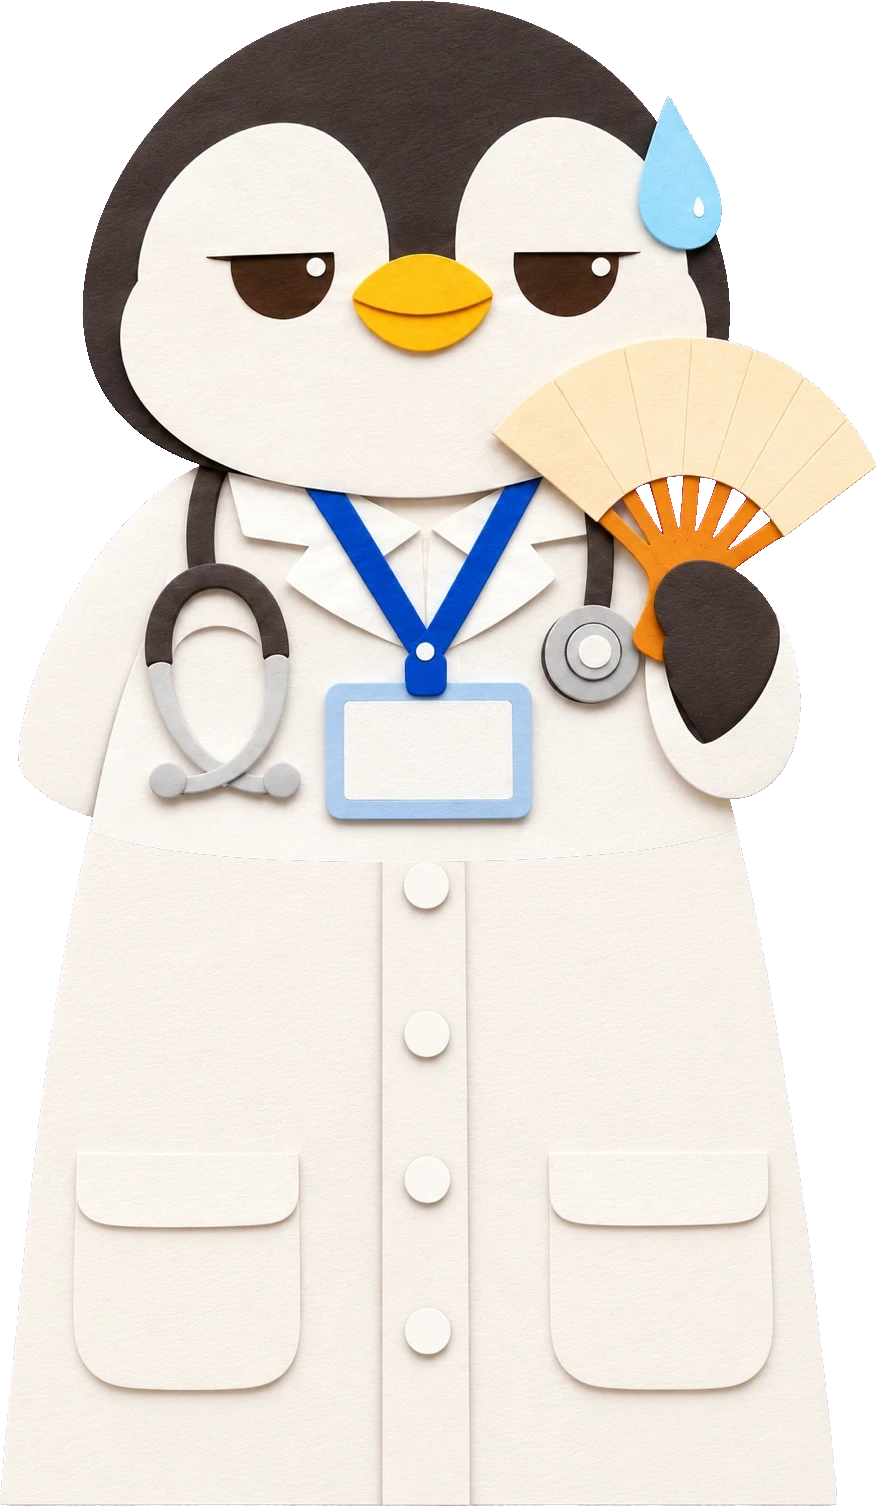
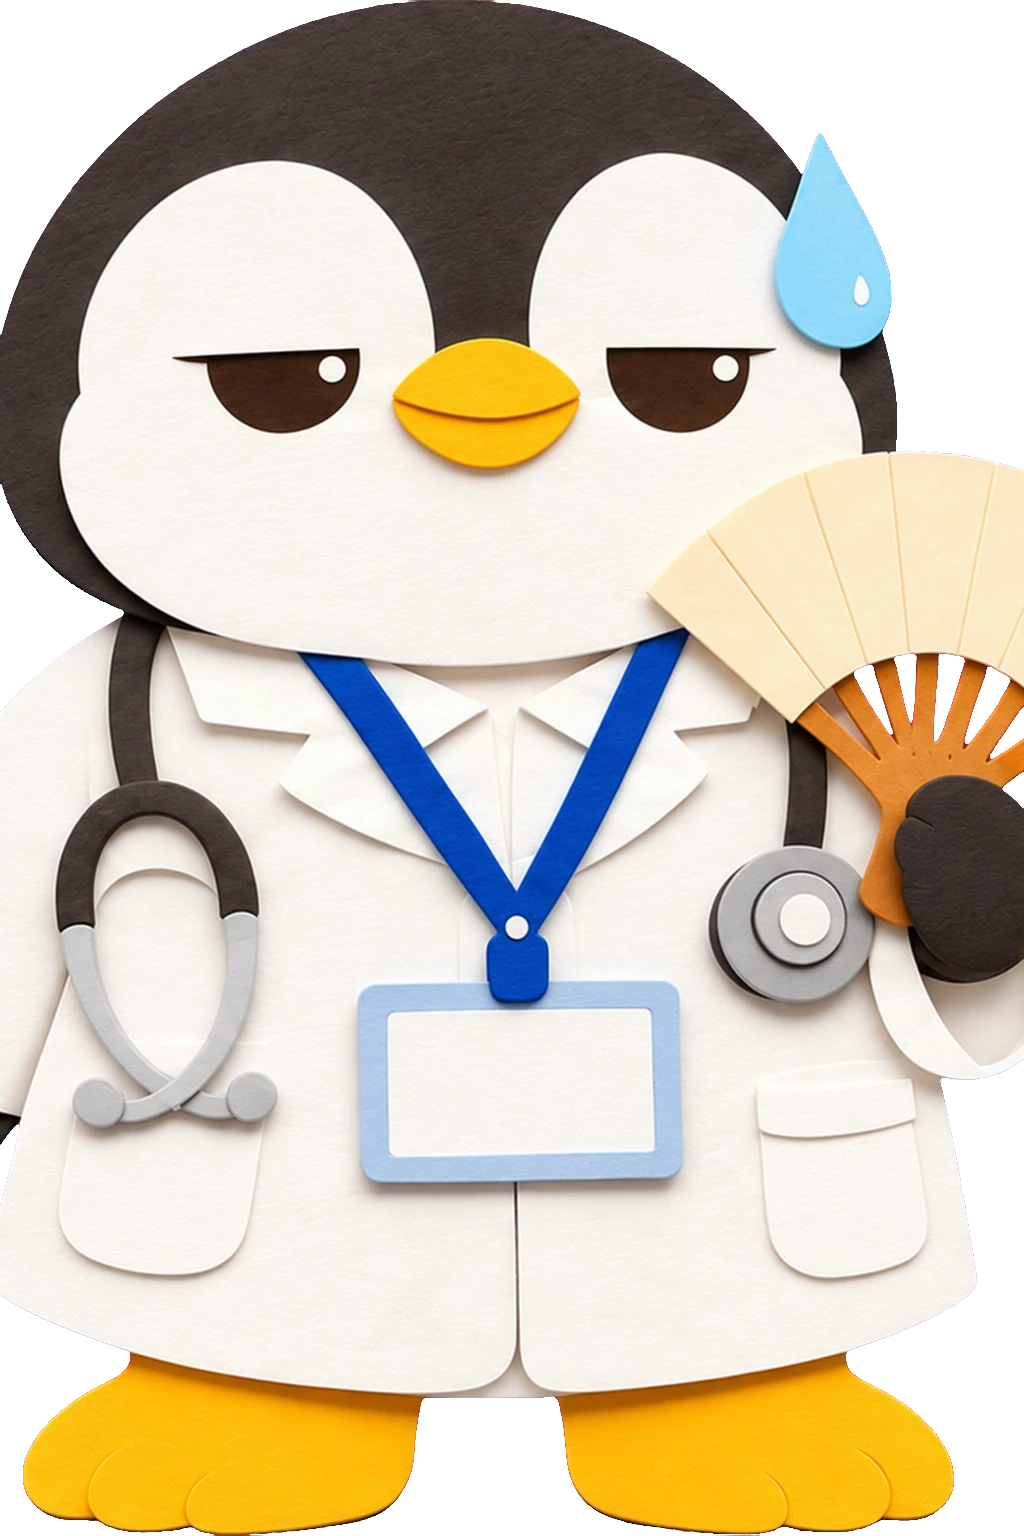
fix(M1): 클로즈업 상반신 규격 — 그림 위 끝 y300·아래 끝 화면 끝(엔진 bust_k, 짧으면 머리 폭 1000까지 키움), 늘려 붙인 그림 버림: 1화 펭귄 상반신 4장은 승인된 전신을 규격 선으로 잘라 다시(draft), 윙키 교차 컷은 원본. 지적 장부 rules/lessons.md + check 18(윙키 한 컷, 의자 가운데), 판다 눈 무늬 잠금, 의료인 대사 규칙, 그림 올리기 전 얼굴 확대 확인
미르님 2026-11-16: 「이게 기존 실수가 다시 반복되면 스킬로써의 가치가 없어」, 「모든 캐릭터가 같은 수준의 상반신 위치를 정하고… 이미지 메이킹에서부터 처리」.

diff --git a/engine/build.py b/engine/build.py
@@ -47,7 +47,8 @@ SETS = {
              "M": dict(bg="set-door-m", floor=1560)},                     # M2 두 사람 현관. 저녁은 컷의 bg="set-door-m-evening"
  # M2 새 세트(배경이 1080 폭에 z 1.0). floor = 발끝 y(앞쪽 바닥), seat = 앉기 조각 발끝 y(의자·벤치 높이), front = 앉은 인물 앞에 다시 그리는 배경 상자(책상)
  # ponytail: floor·seat·front는 그림을 보고 잰 값이다. 세트 그림이 바뀌면 다시 잰다
- "company": {"M": dict(bg="set-company-m", floor=1330, seat=1110, front=(400, 966, 1080, 1330), z=1.15, ppm=0.62), "CU": dict(bg="set-company-cu", z=1.0)},   # company M은 당겨 찍기(빈 바닥을 줄이고 두 사람을 크게)
+ "company": {"M": dict(bg="set-company-m", floor=1330, seat=1110, front=(400, 966, 1080, 1330), z=1.15, ppm=0.62, chair_x=815),   # chair_x: 의자 등받이 가운데(check 18)
+            "CU": dict(bg="set-company-cu", z=1.0)},   # company M은 당겨 찍기(빈 바닥을 줄이고 두 사람을 크게)
  "recycle": {"M": dict(bg="set-recycle-m", floor=1560), "CU": dict(bg="set-recycle-cu-a", z=1.0)},
  "clinic":  {"M": dict(bg="set-clinic-m", floor=1580, seat=1575), "CU": dict(bg="set-clinic-cu", z=1.0)},
  "kitchen": {"M": dict(bg="set-kitchen-w", ref="조리대 윗면 905·밑선 1310 (850mm)", ppm0=405 / 850, base=1310),
@@ -60,8 +61,11 @@ SETS = {
 # ── 3. 프리셋 (KIT-SPEC 2절). M은 7판에서 바꿨다(ep01-v7 README 「기획과 다르게 한 것」 1)
 PRESET = {
  "M":  dict(ppm=0.54, pos={"좌": 200, "중": 540, "우": 880, "좌2": 290, "우2": 790}),   # M2: 좌2·우2 = 두 사람 컷
- "CU": dict(ppm={"winky": 1.40}, head_top=300, bust_head_px=770),
+ "CU": dict(ppm={"winky": 1.40}, head_top=300, bust_head_px=770, bust_head_max=1000),
 }
+# 클로즈업 상반신 규격(2026-11-16 미르님 「모든 캐릭터가 같은 수준의 상반신 위치」): 그림 위 끝 y 300, 머리 폭 770 기준.
+# 그림이 짧아 아래 끝이 화면 끝(1920)에 못 미치면 닿을 때까지 키운다(머리 폭 1000까지). 늘려 붙이지 않는다. 그래도 모자라면 그림을 규격대로 다시(check 3)
+def bust_k(a): return max(PRESET["CU"]["bust_head_px"] / (a["anchor"]["head"][2] - a["anchor"]["head"][0]), (1920 - PRESET["CU"]["head_top"]) / a["h"])
 SAFE = dict(l=60, r=1020, t=200, b=1700)
 SUB = dict(y0=1500, y1=1700, px=68, lineh=100)
 TAG_AT = {"좌하": (350, 1340), "우하": (730, 1340), "좌상": (350, 420)}   # M2 좌상: 몸이 화면 아래를 채우는 컷(밤 분리수거장)      # 9판: 자막 띠 바로 위(사양 1250에서 시작하면 3인 컷 가운데 윙키를 가린다)
@@ -185,7 +189,7 @@ def build():
             first = fam_frame(who, seq[0][1])
             if cam == "CU":
                 if K[first]["anchor"].get("scale") == "head" and "상반신" in first:   # 상반신: 머리 폭 770px, 머리끝 y 300
-                    a = K[first]["anchor"]; k = PRESET["CU"]["bust_head_px"] / (a["head"][2] - a["head"][0])
+                    a = K[first]["anchor"]; k = bust_k(K[first])
                     ppm = k * (a["head"][2] - a["head"][0]) / REG["char"][who]["headW"]; foot = None
                 else:
                     ppm = PRESET["CU"]["ppm"][who]; foot = PRESET["CU"]["head_top"] + REG["char"][who]["h"] * ppm
@@ -225,7 +229,7 @@ def build():
                     if extra in K and extra not in names and K[extra].get("family") == K[n].get("family"): names.append(extra)
             pl = {}
             for n in names:
-                a = K[n]; an = a["anchor"]; k = piece_scale(n, who, C["ppm"]) if not (cam == "CU" and "상반신" in n) else PRESET["CU"]["bust_head_px"] / (an["head"][2] - an["head"][0])
+                a = K[n]; an = a["anchor"]; k = piece_scale(n, who, C["ppm"]) if not (cam == "CU" and "상반신" in n) else bust_k(a)
                 w, h = a["w"] * k, a["h"] * k
                 if cam == "CU" and "상반신" in n: top = PRESET["CU"]["head_top"]
                 else: top = C["foot"] - h

diff --git a/engine/check.py b/engine/check.py
@@ -67,7 +67,9 @@ for C in S["cuts"]:
         if cam == "CU" and "상반신" in f0: ok(abs(p["y"] - B.PRESET["CU"]["head_top"]) <= 4, 3, f"컷{n} {f0} 머리끝 y 300")
         if cam == "CU":                             # 2026-11-16 미르님 「상반신 하단이 잘려」: 상반신은 화면 아래 끝까지 몸이 이어져야 한다(떠 보이지 않게)
             for f, q in l["pl"].items():
-                if "상반신" in f: ok(q["y"] + q["h"] >= 1920 - 2, 3, f"컷{n} {f} 아래 끝 y {q['y'] + q['h']:.0f} ≥ 1920(그림을 아래로 늘린다: winky-assets 「상반신」)")
+                if "상반신" not in f: continue
+                hw = (K[f]["anchor"]["head"][2] - K[f]["anchor"]["head"][0]) * q["k"]
+                ok(q["y"] + q["h"] >= 1920 - 2 and hw <= B.PRESET["CU"]["bust_head_max"] + 1, 3, f"컷{n} {f} 아래 끝 {q['y'] + q['h']:.0f} ≥ 1920, 머리 폭 {hw:.0f} ≤ {B.PRESET['CU']['bust_head_max']}(짧으면 그림을 상반신 규격대로 다시: winky-assets 「상반신」)")
         else: ok(abs(p["y"] + p["h"] - l["foot"]) <= 4, 3, f"컷{n} {f0} 발끝 y {l['foot']:.0f}")
     # 4 자리
     for l in chars:
@@ -277,6 +279,17 @@ for C in S["cuts"]:
     for x in C["texts"]:
         for r in x.get("rows", []):
             for st in r.get("strips", []): ok(B.REGISTRY["items"].get(st[0], {}).get("status") == "approved", 16, f"컷{C['n']} 띠 {st[0]} 승인됨")
+# 18 시리즈 규칙(rules/lessons.md): 미르님이 짚은 것을 다시 하지 않는다
+# 윙키는 매회 스쳐서라도 나온다(rules/world.md). 빼려면 episode.py에 NO_WINKY = "이유"
+ok(any(l["kind"] == "char" and l["who"] == "winky" for C in S["cuts"] for l in C["layers"]) or bool(getattr(B, "NO_WINKY", "")), 18, "윙키가 한 컷 이상 나온다(빼면 episode.py NO_WINKY = 이유)")
+# 앉은 인물은 세트 그림의 의자 가운데에(세트에 chair_x를 잰 곳만)
+for C in S["cuts"]:
+    st = B.SETS.get(C["set"], {}).get(C["cam"], {})
+    if "chair_x" not in st: continue
+    for l in C["layers"]:
+        if l["kind"] != "char" or "앉기" not in l["frames"][0]: continue
+        f0 = l["frames"][0]; p = l["pl"][f0]; x = p["x"] + B.K[f0]["anchor"]["cx"] * p["k"]
+        ok(abs(x - st["chair_x"]) <= 4, 18, f"컷{C['n']} {l['who']} 의자 가운데 x {x:.0f} = {st['chair_x']}")
 os.makedirs(os.path.join(HERE, "out"), exist_ok=True)
 by = {}
 for s in LOG + FAIL: by.setdefault(s.split("]")[0] + "]", []).append(s)

diff --git a/rules/lessons.md b/rules/lessons.md
@@ -1,0 +1,49 @@
+# 지적 장부 — 한 번 짚인 것은 다시 하지 않는다
+
+사람이 짚은 실수가 다음 회차에 다시 나오면 이 스킬은 쓸모가 없다(2026-11-16 미르님). 그래서 **지적을 고칠 때는 그 회차만 고치지 않고, 다음 회차가 같은 실수를 못 하게 막는 장치를 함께 넣고 여기 한 줄을 적는다.**
+
+## 규칙
+
+1. **시작 전에 읽는다.** 세 스킬(대본·그림·영상)은 일을 시작하기 전에 이 장부를 읽는다.
+2. **고칠 때 장치까지.** 사람의 지적을 고치면 같은 커밋에서 아래 중 가장 센 장치를 넣는다.
+   - **자동 검사**(`engine/check.py` 번호): 숫자로 잴 수 있으면 반드시 검사로. 렌더 전에 막힌다.
+   - **엔진 기본값**(`engine/build.py`): 사람이 고를 일이 아니면 엔진이 처음부터 맞게 한다.
+   - **생성 잠금**(`kit/gen/prompts/`): 인물 고유 모습은 프롬프트 공통 문단에.
+   - **규칙·스킬 절차**(`rules/`, `skills/`): 잴 수 없는 것(웃음, 말의 뜻, 그림 품질)은 해당 단계의 점검 항목으로.
+3. **기존 회차에도 돌린다.** 새 검사를 넣으면 모든 회차(`episodes/*/`)에서 `check.py`를 돌려, 같은 실수가 숨어 있던 곳을 함께 고친다.
+4. **한 줄 적기:** 날짜 · 지적(사람의 말 그대로) · 막는 장치.
+
+## 장부
+
+### 그림·화면
+
+| 날짜 | 지적 | 막는 장치 |
+|---|---|---|
+| 2026-11-16 | 「윙키 상반신 하단이 잘려」(전에 고쳤는데 또), 늘려 붙인 펭귄은 「너무 부자연스럽네」, 「모든 캐릭터가 같은 수준의 상반신 위치를 정하고… 이미지 메이킹에서부터 처리」 | **클로즈업 규격**: 그림 위 끝 y 300·아래 끝 화면 끝, 짧으면 머리 폭 1000까지 키움(엔진 `bust_k`). check 3: 아래 끝 ≥ 1920, 머리 폭 ≤ 1000. winky-assets 「상반신」: 승인된 전신을 규격 선으로 잘라 다시 그림, 늘려 붙이기 금지. 1화 펭귄 상반신 4장 규격대로 다시 |
+| 2026-11-16 | 「(윙키 놀란 얼굴) 너무 이상한데」 — 눈이 깨짐 | winky-assets 4-1 「올리기 전 직접 보기」: 얼굴 칸 원본 크기 확인, 승인된 같은 표정을 기준 그림으로 |
+| 2026-11-13 | 「상반신 늘린 게 겹쳐 보여」(주머니·밑단 두 번) | winky-assets 「상반신」 줄: 몸은 생성본 한 장, 표정은 얼굴 칸만 `bake.py`로 굽기 |
+| 2026-11-13 | 「의자와 캐릭터 위치가 어긋나」 | check 18: 세트에 잰 의자 가운데(`chair_x`)에 앉은 인물. 새 세트에 의자가 있으면 `SETS`에 `chair_x`를 잰다 |
+| 2026-11-13 | 판다 당황 얼굴에서 눈 무늬가 빠짐 | `kit/gen/prompts/chars.txt` 판다: 눈 무늬는 모든 표정에. winky-assets 4-1 고유 무늬 확인 |
+| 2026-11-13 | 판다 서기에 이어폰이 없음 | `chars.txt` 판다 「white earphones」. winky-assets 4-1 |
+| 2026-11-13 | 책상 앞판이 앉은 인물 뒤로 감 | 엔진 수정(앞판 z), 회사 세트 기본값 |
+| 2026-11-13 | 강조 낱말 1.4배가 자막 띠 위로 넘침 | 엔진 기본값 1.25배. check 7 글자 구역 |
+
+### 이야기·대사
+
+| 날짜 | 지적 | 막는 장치 |
+|---|---|---|
+| 2026-11-16 | 「진료 3분이에요는 오해를 불러일으킬 수 있다」 | `rules/guideline-gate.md` 5번: 의료인 인물의 말은 생활 고증으로 넘기지 않음, 체념·불신으로 읽히는 말 금지 |
+| 2026-11-16 | 「윙키는 어디서도 등장하지 않는다」 | `rules/world.md` 「윙키는 매회 스쳐서라도」, winky-script ⑤ 「윙키 스침」, check 18(빼면 `NO_WINKY = "이유"`) |
+| 2026-11-13 | 「첫 화면부터 무슨 상황인지 모르겠다」 | winky-script ⑤ 「처음 보는 사람 시험」 |
+| 2026-11-13 | 셋업 없는 떡밥(도치 봉투) | winky-script ⑤ 셋업 한 줄, sw-sitcom-comedy 3-1 |
+| 2026-11-13 | 생략 번역투 대사 | `rules/wording.md` 점검 항목 |
+| 2026-11-12 | 대사를 Codex에 넘김 | winky-script ⑥: 대사는 집필 모델이 직접, `rules/models.md` |
+| 2026-11-12 | 설정을 알아야 웃기는 지어낸 개그(버스 안내 방송) | `kit/lexicon/ajae.md` 「하지 않는 것」 |
+
+### 스튜디오(사람이 보는 화면)
+
+| 날짜 | 지적 | 막는 장치 |
+|---|---|---|
+| 2026-11-16 | 「딱 눈에 들어오는 인터페이스가 아니다」 | `rules/studio.md` 요청 쓰는 규칙, 영상 고정 2단·행동 바 |
+| 2026-11-13 | 고르는 버튼이 영상 아래에 묻힘 | 요청 `body`·`after` 나눔(`rules/studio.md`) |
+| 2026-11-13 | 그림이 작아 판단이 안 됨 | 그림 크게·눌러서 확대, 올리기 전 Chrome으로 직접 확인(`rules/studio.md` 1-6) |

diff --git a/skills/winky-episode/SKILL.md b/skills/winky-episode/SKILL.md
@@ -5,6 +5,8 @@ description: 승인된 「윙키와 친구들」 대본(winky-script 결과)을 
 
 # 회차 영상 만들기
 
+> **시작 전에 `rules/lessons.md`(지적 장부)를 읽는다.** 사람이 짚은 실수를 고칠 때는 그 회차만 고치지 말고, 다음 회차가 같은 실수를 못 하게 막는 장치(자동 검사 > 엔진 기본값 > 생성 잠금 > 규칙·절차)를 같은 커밋에 넣고 장부에 한 줄 적는다.
+
 > 모델 분업은 `rules/models.md`를 따른다. 계정·API별 설정은 `docs/providers.md`(총괄 검수·디렉팅은 가장 똑똑한 모델 하나(Fable 또는 사용자가 지정한 모델), 집필은 Opus, 정리·조사는 Sonnet·Haiku, 외부 모델 검토, 제작 모델은 기획대로만).
 
 
@@ -67,12 +69,12 @@ cd episodes/ep02-<영문-짧게>
 
 ```bash
 python3 ../../engine/build.py       # → scene.json, scene.js
-python3 ../../engine/check.py       # 17항목. 실패가 하나라도 있으면 렌더하지 않는다 → out/check.txt
+python3 ../../engine/check.py       # 18항목. 실패가 하나라도 있으면 렌더하지 않는다 → out/check.txt
 node ../../engine/textcheck.mjs     # 렌더된 글자가 칸·안전 여백 안인지
 node ../../engine/shot.mjs           # 2초 간격 확인판 + 끝 0.5초 전 → out/shots/. 시각을 주면 그 시각만(node ../../engine/shot.mjs 12.5 13)
 ```
 
-check 항목(17): 1 이름(레지스트리 approved·효과음 등록) · 2 크기 ±5% · 3 놓이는 곳(상반신은 화면 아래 끝까지) · 4 자리 · 5 겹침(얼굴 0, 몸통 15%) · 6 확대(조각 1.3, 배경 1.15, CSS 금지 표현) · 7 글자 구역(안전 여백, 보호 상자, 자막 56px 이상) · 8 칸 글자 · 9 호흡(한 컷 한 줄, 1.2초, 초당 5음절, 14자) · 10 음악 큐 · 11 표기(끝 화면 4줄, 본편 로고 없음, 썸네일 로고, 「1화」 없음) · 12 컵 · 13 손에 그린 소품 ±10% · 14 판 소품·팔 · 15 혈당·판정 표현 없음 · 16 레지스트리 · 17 연출 한도.
+check 항목(18): 1 이름(레지스트리 approved·효과음 등록) · 2 크기 ±5% · 3 놓이는 곳(상반신은 화면 아래 끝까지) · 4 자리 · 5 겹침(얼굴 0, 몸통 15%) · 6 확대(조각 1.3, 배경 1.15, CSS 금지 표현) · 7 글자 구역(안전 여백, 보호 상자, 자막 56px 이상) · 8 칸 글자 · 9 호흡(한 컷 한 줄, 1.2초, 초당 5음절, 14자) · 10 음악 큐 · 11 표기(끝 화면 4줄, 본편 로고 없음, 썸네일 로고, 「1화」 없음) · 12 컵 · 13 손에 그린 소품 ±10% · 14 판 소품·팔 · 15 혈당·판정 표현 없음 · 16 레지스트리 · 17 연출 한도 · 18 시리즈 규칙(윙키 한 컷 이상, 앉은 인물은 세트 의자 가운데; `rules/lessons.md`).
 
 검사가 못 보는 것은 확인판을 직접 본다: 자막이 손의 소품을 가리나, 이름표가 얼굴을 덮나, 손과 소품이 어색한가, 옷 색이 맞나, 배경에 글자가 그려졌나. 고친 것은 회차 README에 적는다.
 

diff --git a/rules/guideline-gate.md b/rules/guideline-gate.md
@@ -28,6 +28,7 @@
 3. **지침 밖·검수 필요** — 근거를 못 찾았다. 검수 질문에 올리고, 답이 나기 전에는 게시하지 않는다.
 4. **인물 대사(오해)** — 잘못된 생각을 인물이 말한다. **같은 회 안에서 반드시 바로잡힌다.** 바로잡는 컷 번호를 적는다.
 5. **인물 행동·연출·정책 문구** — 권하는 말이 아님을 적는다.
+   - **의료인 인물(펭귄 선생님 등)의 말은 5번으로 넘기지 않는다.** 생활 고증이라도 시청자에게는 사실로 들린다. 진료 시간·의사 태도·의료 체계에 대해 「물어봐야 소용없다」「병원 가 봐야 똑같다」처럼 체념이나 불신으로 읽히는 말은 쓰지 않는다. 의료인의 말은 1·2번 판정이 나오거나, 맞는 말(「다 물어봐도 돼요」)이어야 한다(2026-11-16 「진료 3분이에요」 → 「그럼요, 다 물어… / …궁금한 거부터요」).
 
 ## 원칙
 

diff --git a/rules/README.md b/rules/README.md
@@ -5,6 +5,7 @@
 | 파일 | 내용 |
 |---|---|
 | `directing.md` | 연출 기준(lemo-opuscar DIRECTOR.md를 우리 형식에 맞춤): 벤치마크, 이야기, 트리트먼트, 소리, 리듬, 카메라, 연기, 자막 연기, 정보, 넘기기 전 점검 |
+| `lessons.md` | **지적 장부**: 사람이 짚은 실수와 그것을 다시 못 하게 막는 장치(검사 번호·규칙). 세 스킬이 시작 전에 읽는다 |
 | `studio.md` | 윙키 스튜디오로 사람에게 결정·승인 받는 법(요청 쓰는 규칙, 답 읽기, 미리 보기 영상으로 그림 승인) |
 | `world.md` | 세계관 4판(무대 모래언덕 빌라, 인물, 펭귄 선생님·윙키가 끼어드는 이유, 한 회 공식, 에피소드 씨앗, 하지 않는 것) |
 | `KIT-SPEC.md` | 제작 키트 사양 1판(크기 레지스트리 mm, 세트·카메라, 자세·표정, 소리, 글자, 자동 검사 12항). 5절 음악 큐 규칙 1~4는 `music.md`가 대체한다 |
